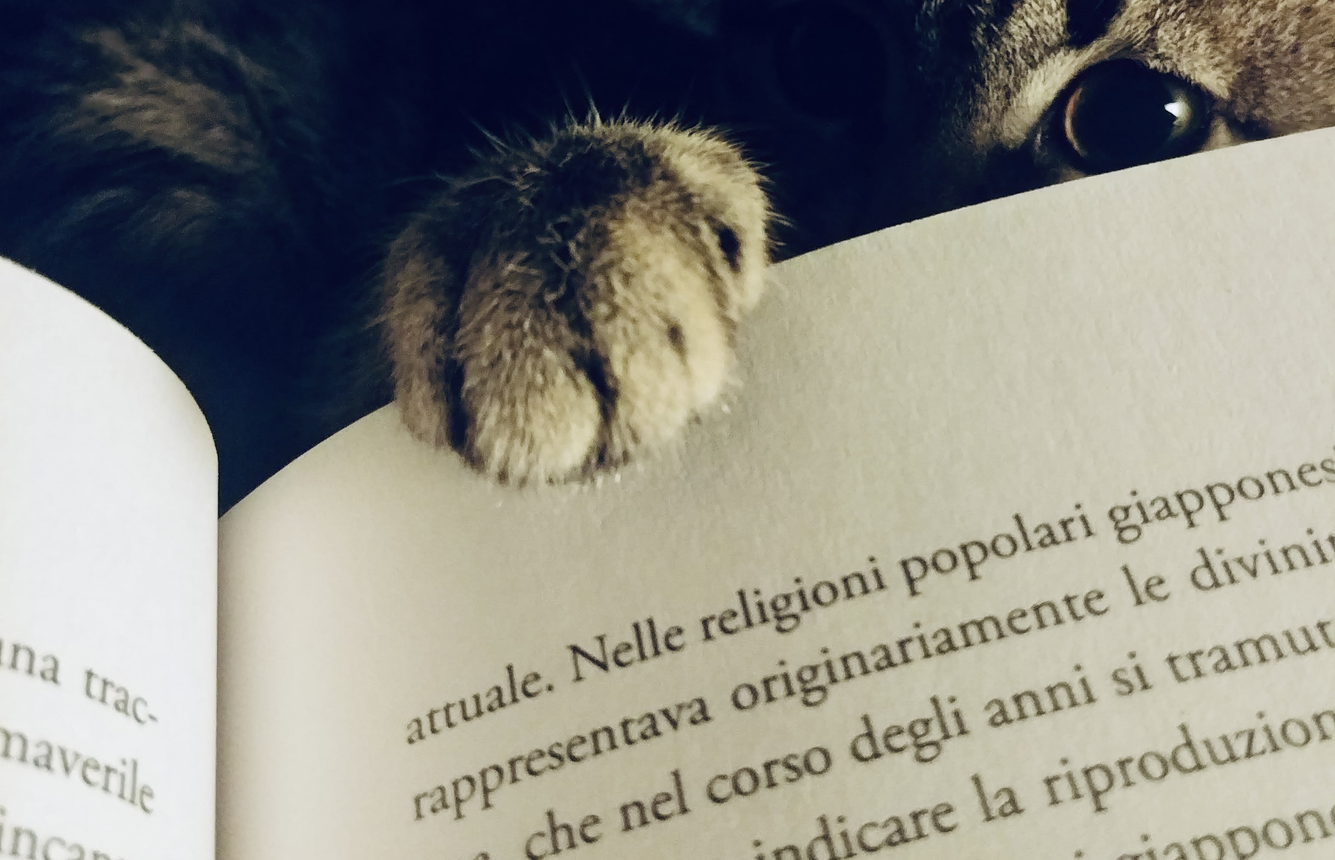
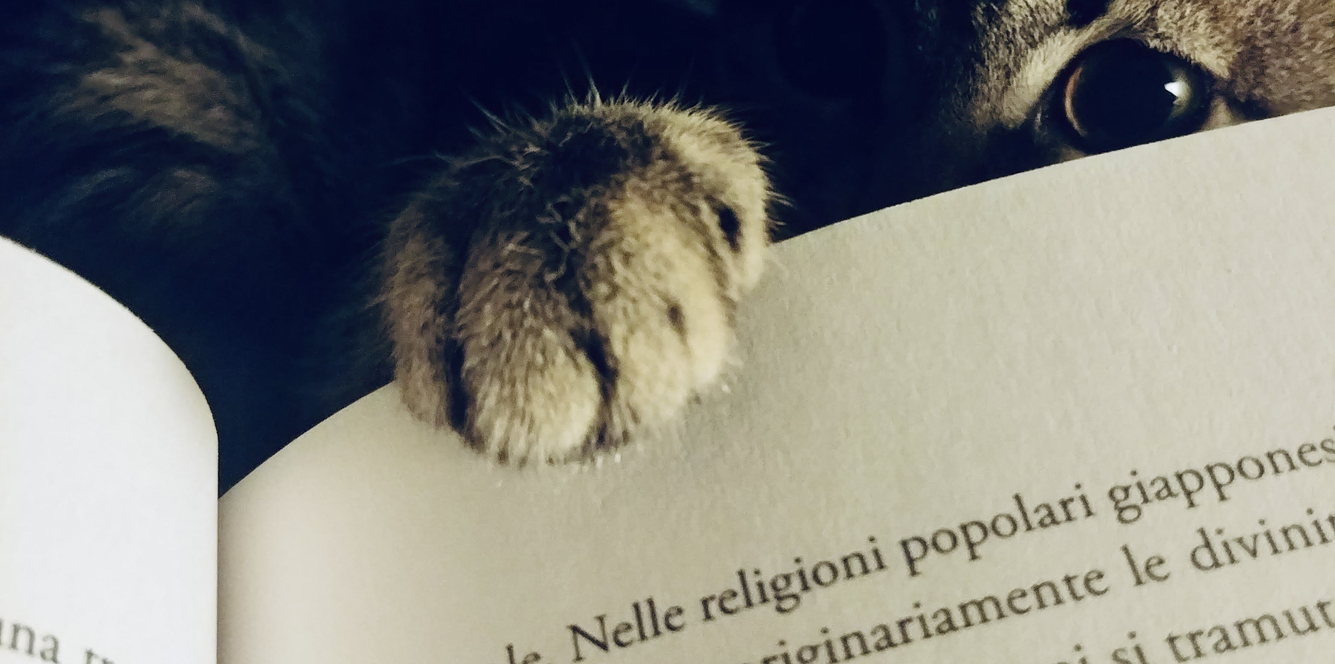
fix book image

diff --git a/exampleSite/content/books.md b/exampleSite/content/books.md
@@ -1,7 +1,7 @@
 ---
 title: Lista Libri
 description: Lista dei libri letti in viaggio
-image: https://res.cloudinary.com/ilgattodicitturin/image/upload/v1657831462/book_jndmhe.jpg
+image: https://res.cloudinary.com/ilgattodicitturin/image/upload/v1657832150/book_vmll4s.jpg
 layout: books
 ---
 #### Tutti i libri consigliati da noi
